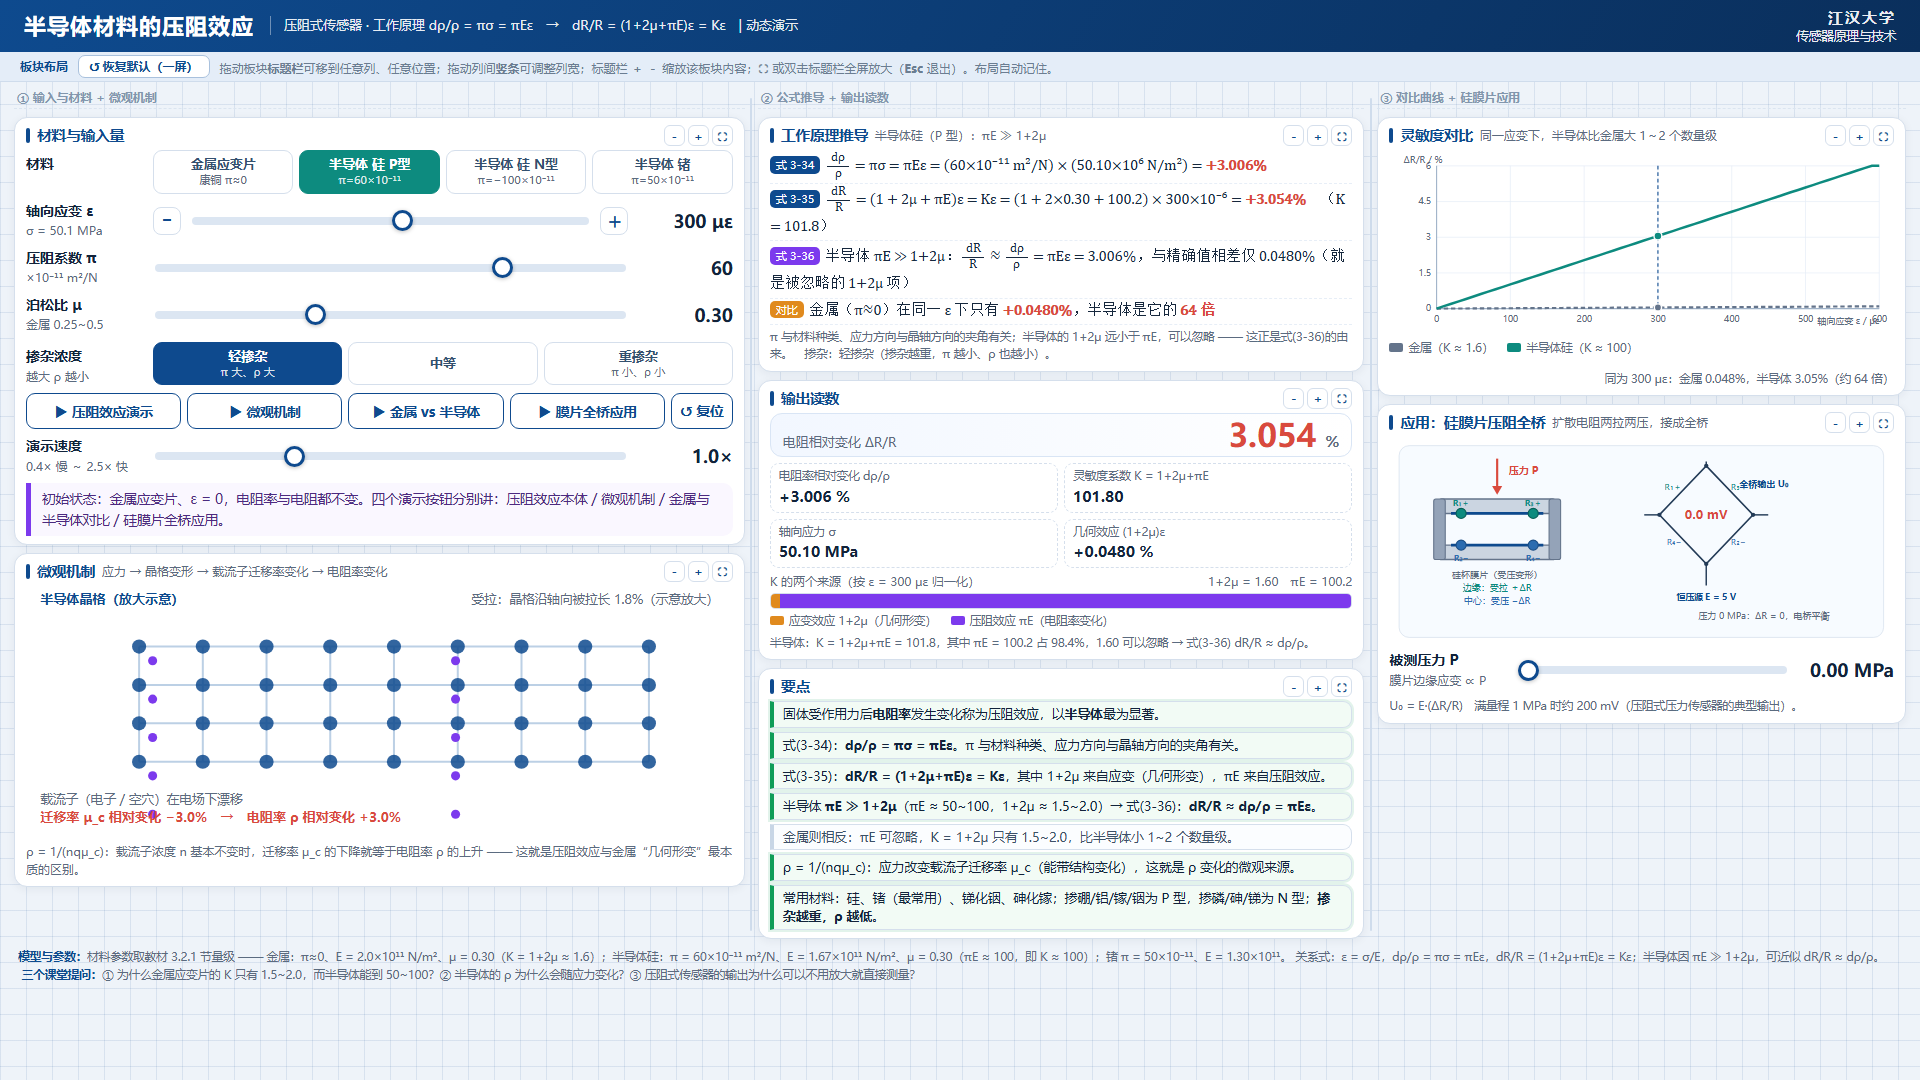
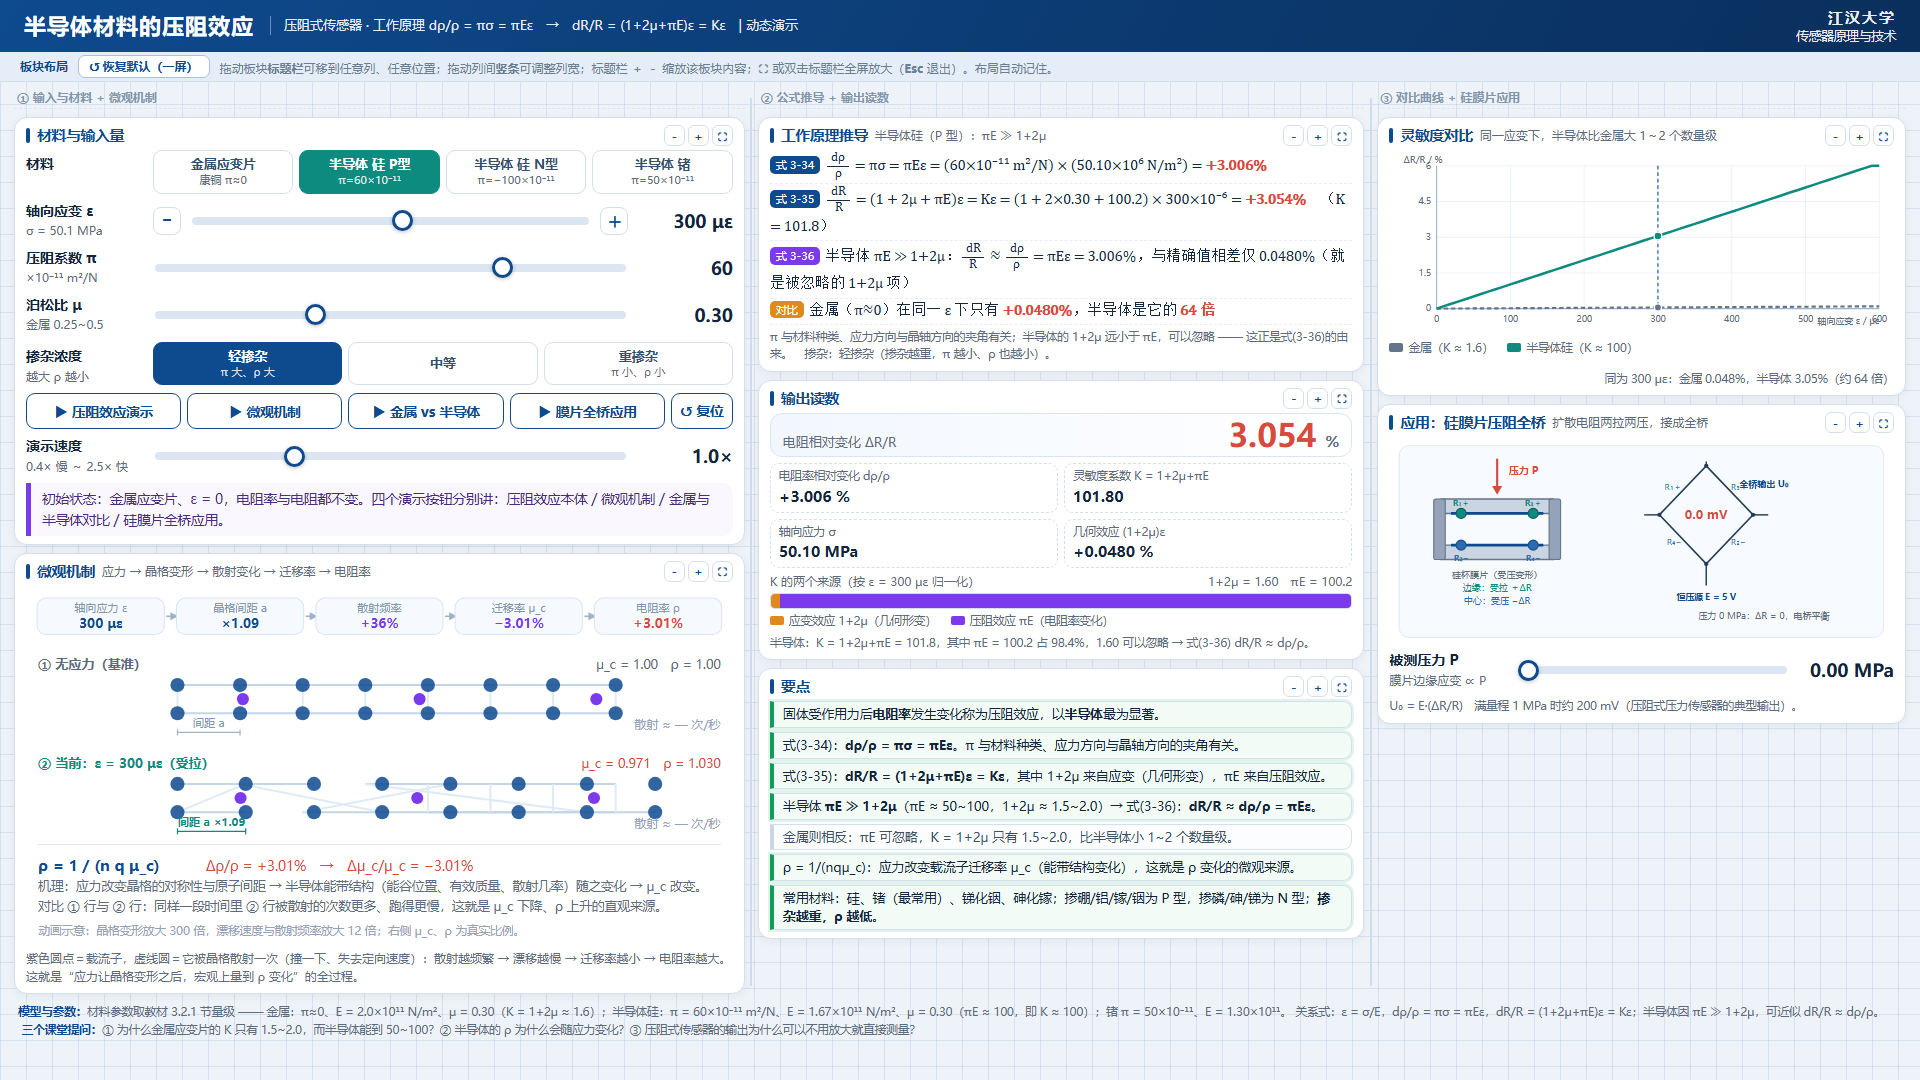
微观机制改为双行对照动画：晶格变形/散射闪烁/漂移速度可视化，顶部流程链给出实时数值，金属与半导体对比更直观

diff --git a/传感器原理及检测技术/第3章-半导体压阻效应-动态演示.html b/传感器原理及检测技术/第3章-半导体压阻效应-动态演示.html
@@ -227,19 +227,43 @@
 
     <section class="card panel" id="lattice">
       <div class="phead">
-        <h2>微观机制 <small>应力 → 晶格变形 → 载流子迁移率变化 → 电阻率变化</small></h2>
+        <h2>微观机制 <small>应力 → 晶格变形 → 散射变化 → 迁移率 → 电阻率</small></h2>
         <div class="ptools"><button class="ptool" data-act="out" title="缩小本板块内容">－</button><button class="ptool" data-act="in" title="放大本板块内容">＋</button><button class="ptool" data-act="max" title="最大化 / 还原">⛶</button></div>
       </div>
       <div class="pbody">
-      <svg id="lat" viewBox="0 0 700 250" role="img" aria-label="半导体晶格与载流子示意">
-        <text x="14" y="18" font-size="13" font-weight="700" fill="#0e4a8e">半导体晶格（放大示意）</text>
-        <text id="latState" x="686" y="18" text-anchor="end" font-size="12.5" fill="#5b6b80">无应力：晶格间距正常</text>
-        <g id="latGrid"></g>
-        <g id="carriers"></g>
-        <text x="14" y="216" font-size="12.5" fill="#5b6b80">载流子（电子 / 空穴）在电场下漂移</text>
-        <text id="carrierNote" x="14" y="234" font-size="13" font-weight="700" fill="#7c3aed">迁移率 μ_c 相对变化 0.0%　→　电阻率 ρ 相对变化 0.0%</text>
+      <svg id="lat" viewBox="0 0 700 356" role="img" aria-label="应力改变晶格、散射与电阻率的对照示意">
+        <g id="chain"></g>
+        <!-- ① 基准 -->
+        <text x="12" y="82" font-size="13" font-weight="700" fill="#5b6b80">① 无应力（基准）</text>
+        <text id="roA" x="688" y="82" text-anchor="end" font-size="12.5" fill="#5b6b80">μ_c = 1.00　ρ = 1.00</text>
+        <g id="atomsA"></g><g id="carsA"></g><g id="flashA"></g>
+        <g id="dimA">
+          <line x1="150" y1="142" x2="150" y2="148" stroke="#9fb2c8" stroke-width="1.2"/>
+          <line x1="212" y1="142" x2="212" y2="148" stroke="#9fb2c8" stroke-width="1.2"/>
+          <line x1="150" y1="145" x2="212" y2="145" stroke="#9fb2c8" stroke-width="1.2"/>
+          <text x="181" y="140" text-anchor="middle" font-size="11" fill="#8296ad">间距 a</text>
+        </g>
+        <text id="scA" x="688" y="142" text-anchor="end" font-size="12" fill="#94a3b8">散射 ≈ — 次/秒</text>
+        <!-- ② 当前 -->
+        <text id="laB" x="12" y="180" font-size="13" font-weight="700" fill="#0d8b7f">② 当前：ε = 0 με</text>
+        <text id="roB" x="688" y="180" text-anchor="end" font-size="12.5" fill="#0d8b7f">μ_c = 1.00　ρ = 1.00</text>
+        <g id="atomsB"></g><g id="carsB"></g><g id="flashB"></g>
+        <g id="dimB">
+          <line id="dimB1" x1="150" y1="240" x2="150" y2="246" stroke="#0d8b7f" stroke-width="1.2"/>
+          <line id="dimB2" x1="212" y1="240" x2="212" y2="246" stroke="#0d8b7f" stroke-width="1.2"/>
+          <line id="dimB3" x1="150" y1="243" x2="212" y2="243" stroke="#0d8b7f" stroke-width="1.2"/>
+          <text id="dimBt" x="181" y="238" text-anchor="middle" font-size="11" font-weight="700" fill="#0d8b7f">间距 a ×1.00</text>
+        </g>
+        <text id="scB" x="688" y="240" text-anchor="end" font-size="12" fill="#94a3b8">散射 ≈ — 次/秒</text>
+        <!-- 结论 -->
+        <line x1="12" y1="256" x2="688" y2="256" stroke="#e2e8f0"/>
+        <text x="12" y="282" font-size="15" font-weight="700" fill="#0e4a8e">ρ = 1 / (n q μ_c)</text>
+        <text id="rhoLine" x="178" y="282" font-size="13.5" fill="#33506f">应力使迁移率 μ_c 变化 → 电阻率 ρ 反向变化</text>
+        <text id="whyLine" x="12" y="302" font-size="12.5" fill="#5b6b80">机理：应力改变晶格的对称性与原子间距 → 半导体能带结构（能谷位置、有效质量、散射几率）随之变化 → μ_c 改变。</text>
+        <text id="whyLine2" x="12" y="322" font-size="12.5" fill="#5b6b80">金属缺少这个“杠杆”：晶格同样会变形，但 ρ 几乎不变，只能靠尺寸变化（1+2μ）—— 对比一下 ② 行。</text>
+        <text x="12" y="346" font-size="11.5" fill="#94a3b8">动画示意：晶格变形放大 300 倍，漂移速度与散射频率放大 12 倍；右侧 μ_c、ρ 为真实比例。</text>
       </svg>
-      <div class="hint" id="latHint">ρ = 1/(nqμ_c)：载流子浓度 n 基本不变时，迁移率 μ_c 的下降就等于电阻率 ρ 的上升 —— 这就是压阻效应与金属“几何形变”最本质的区别。</div>
+      <div class="hint" id="latHint">紫色圆点＝载流子，虚线圆＝它被晶格散射一次（撞一下、失去定向速度）：散射越频繁 → 漂移越慢 → 迁移率越小 → 电阻率越大。这就是“应力让晶格变形之后，宏观上量到 ρ 变化”的全过程。</div>
       </div>
     </section>
   </div>
@@ -485,95 +509,156 @@
     if (window.__repack) window.__repack();
   }
 
-  /* ============ 5. 微观机制动画 ============ */
-  var LAT = { atoms:[], carriers:[], t:0, raf:0 };
-  function initLattice(){
-    var g = $('latGrid'), c = $('carriers'), html = '', i, j;
-    LAT.atoms = [];
-    for (j = 0; j < 4; j++){
-      for (i = 0; i < 9; i++){
-        LAT.atoms.push({ bx:110 + i*62, by:60 + j*38 });
+  /* ============ 5. 微观机制：双行对照动画（基准 vs 当前） ============ */
+  /* 说明：晶格变形放大 GAIN_A 倍、漂移速度与散射频率放大 GAIN_B 倍，右侧数字为真实比例 */
+  var GAIN_A = 300, GAIN_B = 12;
+  var V0 = 1.15;                 /* 基准漂移速度 px/帧 */
+  var INTERVAL0 = 620;           /* 基准散射间隔 ms */
+  var MICRO = { lanes:{}, last:0 };
+
+  function buildLane(key, gAtoms, gCars, gFlash, yTop, yBot, yCar){
+    var atoms = [], cars = [], html = '', fh = '', i;
+    var X0 = 150, N = 8, SP = 62;
+    /* 晶格：两行原子 + 竖向/横向键 */
+    for (i = 0; i < N; i++){
+      atoms.push({ bx:X0 + i*SP, y1:yTop, y2:yBot });
+    }
+    for (i = 0; i < N; i++){
+      if (i < N-1){
+        html += '<line class="bA" x1="' + (X0+i*SP) + '" y1="' + yTop + '" x2="' + (X0+(i+1)*SP) + '" y2="' + yTop + '" stroke="#c3d5e8" stroke-width="2"/>';
+        html += '<line class="bA" x1="' + (X0+i*SP) + '" y1="' + yBot + '" x2="' + (X0+(i+1)*SP) + '" y2="' + yBot + '" stroke="#c3d5e8" stroke-width="2"/>';
       }
+      html += '<line class="bA" x1="' + (X0+i*SP) + '" y1="' + yTop + '" x2="' + (X0+i*SP) + '" y2="' + yBot + '" stroke="#e0eaf5" stroke-width="2"/>';
+      html += '<circle class="aA" cx="' + (X0+i*SP) + '" cy="' + yTop + '" r="7" fill="#0e4a8e" opacity=".85"/>';
+      html += '<circle class="aA" cx="' + (X0+i*SP) + '" cy="' + yBot + '" r="7" fill="#0e4a8e" opacity=".85"/>';
     }
-    /* 键（连线） */
-    for (j = 0; j < 4; j++){
-      for (i = 0; i < 8; i++){
-        var a = LAT.atoms[j*9 + i], b = LAT.atoms[j*9 + i + 1];
-        html += '<line x1="' + a.bx + '" y1="' + a.by + '" x2="' + b.bx + '" y2="' + b.by +
-                '" stroke="#bcd0e5" stroke-width="2"/>';
-      }
+    $(gAtoms).innerHTML = html;
+    /* 载流子 + 散射闪烁圈 */
+    for (i = 0; i < 3; i++){
+      var x = 205 + i*175;
+      cars.push({ x:x, timer:INTERVAL0*(0.4 + 0.3*i), flash:0 });
+      fh += '<circle class="fA" cx="' + x + '" cy="' + yCar + '" r="6" fill="none" stroke="#7c3aed" stroke-width="2" opacity="0"/>';
     }
-    for (j = 0; j < 3; j++){
-      for (i = 0; i < 9; i++){
-        var p = LAT.atoms[j*9 + i], q = LAT.atoms[(j+1)*9 + i];
-        html += '<line x1="' + p.bx + '" y1="' + p.by + '" x2="' + q.bx + '" y2="' + q.by +
-                '" stroke="#bcd0e5" stroke-width="2"/>';
-      }
-    }
-    /* 原子 */
-    LAT.atoms.forEach(function(a){
-      html += '<circle class="latAtom" cx="' + a.bx + '" cy="' + a.by + '" r="7" fill="#0e4a8e" opacity=".85"/>';
-    });
-    g.innerHTML = html;
-    /* 载流子 */
-    var ch = '';
-    for (i = 0; i < 10; i++){
-      var y = 74 + (i % 5)*38, x = 120 + Math.floor(i/5)*300;
-      LAT.carriers.push({ x:x, y:y, base:x });
-      ch += '<circle class="carrier" cx="' + x + '" cy="' + y + '" r="4.5" fill="#7c3aed"/>';
-    }
-    c.innerHTML = ch;
-    LAT.nodes = g.querySelectorAll('.latAtom');
-    LAT.lines = g.querySelectorAll('line');
-    LAT.carr  = c.querySelectorAll('.carrier');
-    runLattice();
+    $(gCars).innerHTML = cars.map(function(c){
+      return '<circle class="cA" cx="' + c.x + '" cy="' + yCar + '" r="6" fill="#7c3aed"/>';
+    }).join('');
+    $(gFlash).innerHTML = fh;
+    MICRO.lanes[key] = {
+      cars: cars, yCar: yCar, x0:X0, x1:X0 + (N-1)*SP, yTop:yTop, yBot:yBot, N:N, SP:SP,
+      els: $(gCars).querySelectorAll('.cA'), flashEls: $(gFlash).querySelectorAll('.fA'),
+      atomEls: $(gAtoms).querySelectorAll('.aA'), bondEls: $(gAtoms).querySelectorAll('.bA'),
+      factor:1, scatter:0, acc:0, rate:null, rateEl: key === 'A' ? 'scA' : 'scB'
+    };
   }
-  function runLattice(){
-    var speedFactor = 1;
-    function loop(){
-      LAT.t += 1;
-      var dRho = LAT.dRho || 0;
-      /* 载流子漂移速度 ∝ 迁移率，Δμ/μ = −Δρ/ρ */
-      speedFactor = Math.max(0.25, Math.min(2.2, 1 - dRho*6));
-      LAT.carriers.forEach(function(o, i){
-        o.x += 1.05*speedFactor;
-        if (o.x > 660) o.x = 96;
+
+  function initMicro(){
+    /* 顶部流程链 */
+    var chain = [
+      { t:'轴向应力 ε', id:'cv0', c:'#0e4a8e' },
+      { t:'晶格间距 a', id:'cv1', c:'#0e4a8e' },
+      { t:'散射频率',   id:'cv2', c:'#7c3aed' },
+      { t:'迁移率 μ_c', id:'cv3', c:'#7c3aed' },
+      { t:'电阻率 ρ',   id:'cv4', c:'#d94a3d' }
+    ];
+    var html = '';
+    chain.forEach(function(c, i){
+      var x = 11 + i*138;
+      html += '<rect x="' + x + '" y="12" width="126" height="36" rx="9" fill="#f6faff" stroke="#d9e5f5"/>' +
+              '<text x="' + (x+63) + '" y="26" text-anchor="middle" font-size="11" fill="#8296ad">' + c.t + '</text>' +
+              '<text id="' + c.id + '" x="' + (x+63) + '" y="42" text-anchor="middle" font-size="13" font-weight="700" fill="' + c.c + '">—</text>';
+      if (i < 4){
+        html += '<line x1="' + (x+128) + '" y1="30" x2="' + (x+136) + '" y2="30" stroke="#9fb2c8" stroke-width="1.6"/>';
+        html += '<polygon points="' + (x+140) + ',30 ' + (x+132) + ',26 ' + (x+132) + ',34" fill="#9fb2c8"/>';
+      }
+    });
+    $('chain').innerHTML = html;
+    buildLane('A', 'atomsA', 'carsA', 'flashA', 98, 126, 112);
+    buildLane('B', 'atomsB', 'carsB', 'flashB', 196, 224, 210);
+    microLoop();
+  }
+
+  function microLoop(){
+    var now = performance.now();
+    var dt = Math.min(60, MICRO.last ? now - MICRO.last : 16.7);
+    MICRO.last = now;
+    ['A','B'].forEach(function(k){
+      var L = MICRO.lanes[k];
+      var f = L.factor;
+      L.cars.forEach(function(c, i){
+        /* 漂移（速度 ∝ 1/散射频率） */
+        c.x += V0/f * dt/16.7;
+        if (c.x > 645) c.x = 148;
+        L.els[i].setAttribute('cx', c.x.toFixed(1));
+        /* 散射闪烁 */
+        if (c.flash > 0){
+          c.flash -= dt/700;
+          var t = Math.max(0, c.flash);
+          L.flashEls[i].setAttribute('cx', c.x.toFixed(1));
+          L.flashEls[i].setAttribute('r', (6 + (1-t)*13).toFixed(1));
+          L.flashEls[i].setAttribute('opacity', (t*0.9).toFixed(2));
+        }
+        /* 散射计时：间隔 ∝ 1/散射频率 */
+        c.timer -= dt;
+        if (c.timer <= 0){ c.timer = INTERVAL0/f; c.flash = 1; L.scatter++; }
       });
-      for (var k = 0; k < LAT.carr.length; k++){
-        LAT.carr[k].setAttribute('cx', LAT.carriers[k].x.toFixed(1));
+      L.acc += dt;
+      if (L.acc >= 1000){
+        L.rate = L.scatter; L.scatter = 0; L.acc = 0;
+        $(L.rateEl).textContent = '散射 ≈ ' + L.rate + ' 次/秒';
       }
-      LAT.raf = requestAnimationFrame(loop);
-    }
-    loop();
-  }
-  function paintLattice(m){
-    var stretch = 1 + m.eps*60;                 /* 放大 60 倍便于观察 */
-    LAT.dRho = m.dRho;
-    LAT.atoms.forEach(function(a, i){
-      LAT.nodes[i].setAttribute('cx', (a.bx*stretch).toFixed(1));
     });
-    /* 键跟着动 */
-    var idx = 0, j, i;
-    for (j = 0; j < 4; j++){
-      for (i = 0; i < 8; i++){
-        var a = LAT.atoms[j*9 + i], b = LAT.atoms[j*9 + i + 1], L = LAT.lines[idx++];
-        L.setAttribute('x1', (a.bx*stretch).toFixed(1));
-        L.setAttribute('x2', (b.bx*stretch).toFixed(1));
+    requestAnimationFrame(microLoop);
+  }
+
+  function paintLattice(m){
+    /* 晶格位移：变形量按 ε 放大 GAIN_A 倍（金属同样会变形） */
+    var vis = Math.max(-0.18, Math.min(0.45, m.eps*GAIN_A));
+    var L = MICRO.lanes.B;
+    for (var i = 0; i < L.N; i++){
+      var ax = L.x0 + i*L.SP*(1 + vis);
+      L.atomEls[2*i].setAttribute('cx', ax.toFixed(1));
+      L.atomEls[2*i+1].setAttribute('cx', ax.toFixed(1));
+    }
+    var b = 0;
+    for (i = 0; i < L.N; i++){
+      if (i < L.N-1){
+        L.bondEls[b++].setAttribute('x1', (L.x0 + i*L.SP*(1+vis)).toFixed(1));
+        L.bondEls[b++].setAttribute('x2', (L.x0 + (i+1)*L.SP*(1+vis)).toFixed(1));
       }
     }
-    for (j = 0; j < 3; j++){
-      for (i = 0; i < 9; i++){
-        var p = LAT.atoms[j*9 + i], q = LAT.atoms[(j+1)*9 + i], L2 = LAT.lines[idx++];
-        L2.setAttribute('x1', (p.bx*stretch).toFixed(1));
-        L2.setAttribute('x2', (q.bx*stretch).toFixed(1));
-      }
-    }
-    var st = Math.abs(m.eps) < 1e-9 ? '无应力：晶格间距正常'
-           : (m.eps > 0 ? '受拉：晶格沿轴向被拉长 ' + (m.eps*60*100).toFixed(1) + '%（示意放大）'
-                        : '受压：晶格沿轴向被压缩 ' + Math.abs(m.eps*60*100).toFixed(1) + '%（示意放大）');
-    $('latState').textContent = st;
-    $('carrierNote').textContent = '迁移率 μ_c 相对变化 ' + sgn(-m.dRho*100, 1) + '%　→　电阻率 ρ 相对变化 ' + sgn(m.dRho*100, 1) + '%';
-    $('carrierNote').setAttribute('fill', Math.abs(m.dRho) < 1e-6 ? '#7c3aed' : (m.dRho > 0 ? '#d94a3d' : '#2b6cb0'));
+    /* 散射因子：Δρ/ρ > 0 → 散射变频繁、漂移变慢（放大 GAIN_B 倍显示） */
+    var factor = Math.max(0.4, Math.min(2.5, 1 + m.dRho*GAIN_B));
+    MICRO.lanes.A.factor = 1;
+    MICRO.lanes.B.factor = factor;
+    /* ② 行的间距标注（跟着变形一起动） */
+    var x2 = L.x0 + L.SP*(1 + vis);
+    $('dimB2').setAttribute('x1', x2.toFixed(1)); $('dimB2').setAttribute('x2', x2.toFixed(1));
+    $('dimB3').setAttribute('x2', x2.toFixed(1));
+    $('dimBt').setAttribute('x', ((L.x0 + x2)/2).toFixed(1));
+    $('dimBt').textContent = '间距 a ×' + (1 + vis).toFixed(2);
+
+    /* 文字读数（真实比例） */
+    var muRel = 1/(1 + m.dRho), rhoRel = 1 + m.dRho;
+    $('roA').textContent = 'μ_c = 1.00　ρ = 1.00';
+    $('roB').textContent = 'μ_c = ' + muRel.toFixed(3) + '　ρ = ' + rhoRel.toFixed(3);
+    $('roB').setAttribute('fill', Math.abs(m.dRho) < 1e-6 ? '#5b6b80' : (m.dRho > 0 ? '#d94a3d' : '#2b6cb0'));
+    var stateTxt = Math.abs(m.eps) < 1e-9 ? 'ε = 0 με（无应力）'
+                 : (m.eps > 0 ? 'ε = ' + S.eps + ' με（受拉）' : 'ε = ' + S.eps + ' με（受压）');
+    $('laB').textContent = '② 当前：' + stateTxt + (m.mat.kind === 'metal' ? '　金属：ρ 几乎不变' : '');
+    $('laB').setAttribute('fill', m.mat.kind === 'metal' ? '#64748b' : '#0d8b7f');
+    $('rhoLine').textContent = 'Δρ/ρ = ' + sgn(m.dRho*100, 2) + '%　→　Δμ_c/μ_c = ' + sgn(-m.dRho*100, 2) + '%';
+    $('rhoLine').setAttribute('fill', Math.abs(m.dRho) < 1e-6 ? '#5b6b80' : (m.dRho > 0 ? '#d94a3d' : '#2b6cb0'));
+    /* 顶部流程链取值 */
+    $('cv0').textContent = S.eps + ' με';
+    $('cv1').textContent = '×' + (1 + vis).toFixed(2);
+    $('cv2').textContent = (factor - 1 >= 0 ? '+' : '−') + Math.abs((factor - 1)*100).toFixed(0) + '%';
+    $('cv3').textContent = sgn(-m.dRho*100, 2) + '%';
+    $('cv4').textContent = sgn(m.dRho*100, 2) + '%';
+    $('cv4').setAttribute('fill', Math.abs(m.dRho) < 1e-6 ? '#5b6b80' : (m.dRho > 0 ? '#d94a3d' : '#2b6cb0'));
+    /* 金属时给一句针对性提示 */
+    $('whyLine2').textContent = m.mat.kind === 'metal'
+      ? '金属缺少这个“杠杆”：看 ② 行——晶格明明也被拉长了，但 ρ 与 μ_c 几乎不变，金属的 K 只能来自尺寸变化（1+2μ）。'
+      : '对比 ① 行与 ② 行：同样一段时间里 ② 行被散射的次数更多、跑得更慢，这就是 μ_c 下降、ρ 上升的直观来源。';
   }
 
   /* ============ 6. 公式推导 ============ */
@@ -884,7 +969,7 @@
   }
 
   /* ============ 16. 启动 ============ */
-  initLattice();
+  initMicro();
   setMat('metal');
   DEMOS.main.fn = demoMain; DEMOS.micro.fn = demoMicro;
   DEMOS.cmp.fn = demoCmp;   DEMOS.chip.fn = demoChip;
